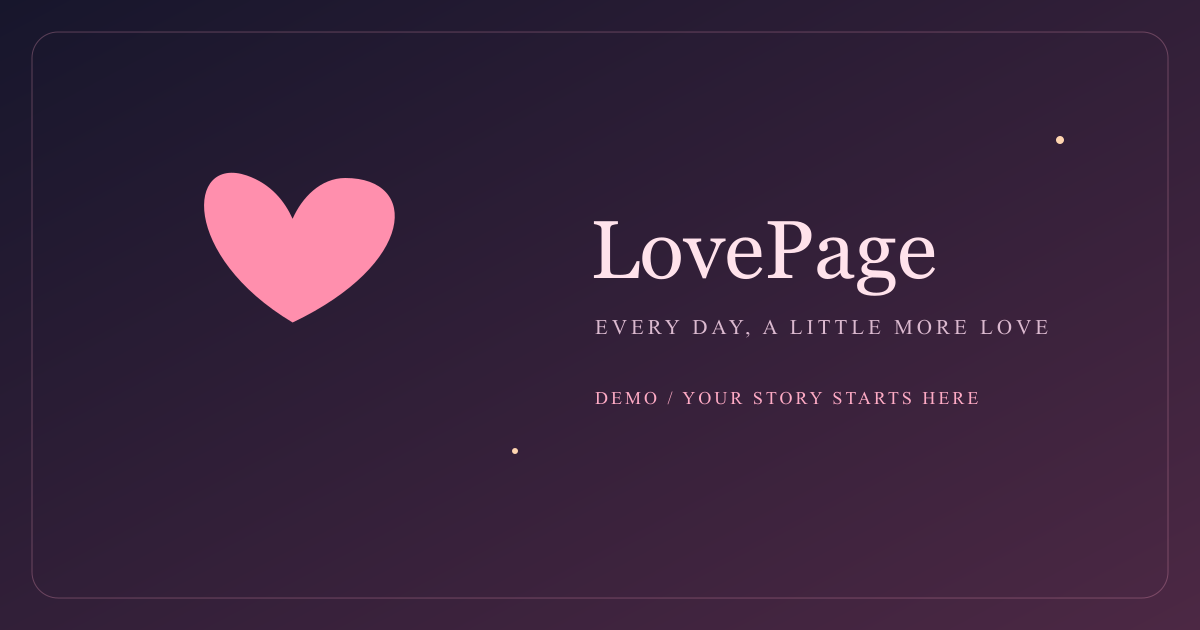
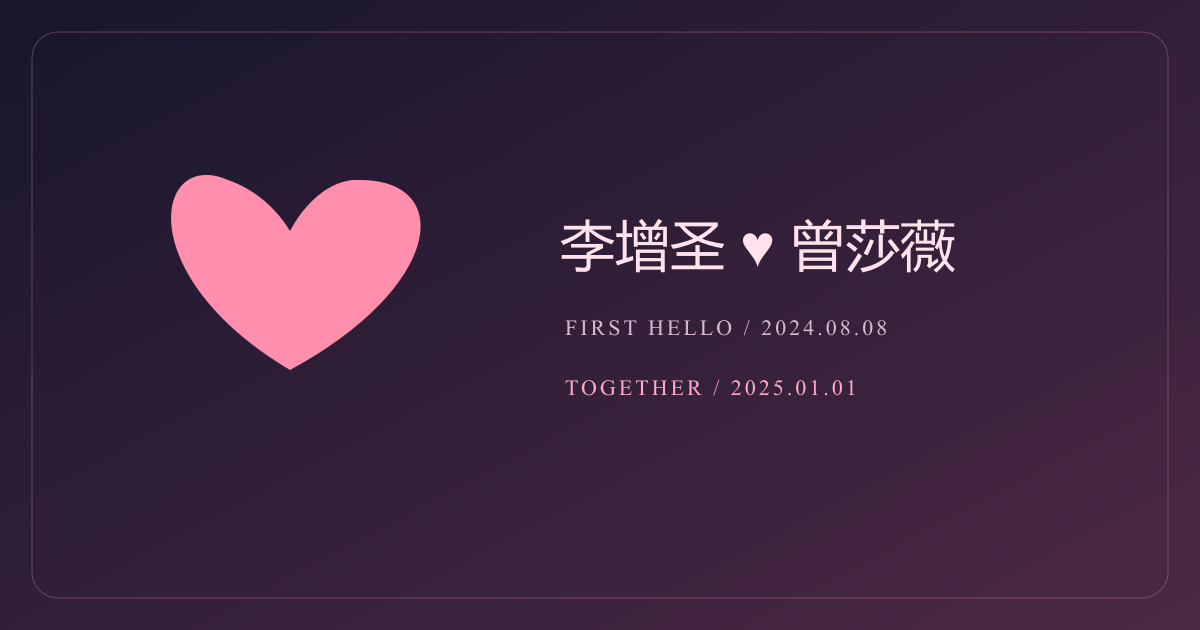
feat: add personal timeline and unmarried relationship details

diff --git a/src/config.ts b/src/config.ts
@@ -58,29 +58,34 @@ function protectPassword(password: string): string {
 const ENV_CONFIG_PATCH = parseEnvConfigPatch(import.meta.env.VITE_LOVE_CONFIG_JSON);
 
 // 专属内容统一在这里替换；环境变量仍可覆盖以下设置。
-// 日期、故事、数量均为演示数据。素材齐全后替换本段并关闭 demoMode。
+// 姓名与日期由本人提供；月份记录保留原始精度，照片暂用明确标记的占位插画。
 const PERSONAL_CONFIG: Partial<Config> = {
   demoMode: true,
-  demoNotice: '示例演示，内容待替换',
+  demoNotice: '我们的故事 · 照片待补充',
   repositoryUrl: 'https://github.com/1910853272/LovePage',
-  boy: '你的名字',
-  girl: 'TA的名字',
-  loveDate: '2024-05-20',
-  marriageDate: '2025-05-20',
+  boy: '李增圣',
+  girl: '曾莎薇',
+  loveDate: '2025-01-01',
+  marriageDate: '',
   siteUrl: 'https://1910853272.github.io/LovePage/',
-  siteName: 'LovePage · 示例版',
+  siteName: '李增圣 ♥ 曾莎薇',
   siteLocale: 'zh-CN',
-  seoDescription: 'LovePage 示例演示。名字、日期、故事与图片均为占位内容，等待替换为我们的回忆。',
+  seoDescription: '李增圣与曾莎薇的故事：2024年8月8日初见，2025年1月1日相恋。记录广州、北京、武汉、长沙与洛阳的城市足迹。',
   siteImage: '/images/share-cover.png',
   siteLogo: '/images/icon-512.png',
   motto: '把平凡的日子，写成我们的故事',
   quotes: ['把平凡的日子，写成我们的故事', '愿每一次回首，都有你在身旁', '慢慢走，把每一天都过成纪念日'],
-  secretMessage: '这里会放上只属于你们的一句话。此刻的照片、日期和故事都是示例。♥',
+  secretMessage: '从初见到相恋，故事仍在继续。♥',
   milestones: [
-    { date: '2024-03-14', label: '初见 · 示例', icon: '🌷', story: '故事从一次相遇开始。这里会记录你们第一次见面的那一天。' },
-    { date: '2024-05-20', label: '相恋 · 示例', icon: '💕', story: '把那句心意说出口，从此多了一个可以分享日常的人。请替换为你们的真实故事。' },
-    { date: '2024-10-01', label: '旅行 · 示例', icon: '✈', story: '一起走过的风景，都会成为回忆。这里等待你们的照片和旅途故事。' },
-    { date: '2025-05-20', label: '约定 · 示例', icon: '💍', story: '未来还有很多值得纪念的日子，留给你们慢慢书写。' },
+    { date: '2024-08-08', label: '初见', icon: '🌷' },
+    { date: '2025-01-01', label: '相恋', icon: '💕' },
+    { date: '2025-02', label: '广州', icon: '📍' },
+    { date: '2025-05-01', label: '广州', icon: '📍' },
+    { date: '2025-07', label: '北京', icon: '📍' },
+    { date: '2025-10-01', label: '武汉', icon: '📍' },
+    { date: '2026-02', label: '长沙', icon: '📍' },
+    { date: '2026-05-01', label: '洛阳', icon: '📍' },
+    { date: '2026-10-01', label: '广州', icon: '📍' },
   ],
   photos: [
     { url: '/images/memory-01.svg', caption: '初见 · 待放入你们的照片' },
@@ -88,31 +93,28 @@ const PERSONAL_CONFIG: Partial<Config> = {
     { url: '/images/memory-03.svg', caption: '远行 · 待放入你们的照片' },
   ],
   timers: [
-    { date: '2024-05-20', label: '相恋时光（示例）', icon: '💕' },
-    { date: '2025-05-20', label: '婚姻时光（示例）', icon: '💍' },
+    { date: '2024-08-08', label: '从初见到现在', icon: '🌷' },
+    { date: '2025-01-01', label: '相恋时光', icon: '💕' },
   ],
   anniversaries: [
-    { date: '2024-05-20', label: '相恋（示例）', icon: '💕' },
-    { date: '2025-05-20', label: '约定（示例）', icon: '💍' },
+    { date: '2024-08-08', label: '初见纪念日', icon: '🌷' },
+    { date: '2025-01-01', label: '相恋纪念日', icon: '💕' },
   ],
   includeDefaultAnniversaries: false,
   statsMode: 'manual',
   statsShowVisitCount: false,
   stats: [
-    { label: '示例旅行', value: 3, icon: '✈' },
-    { label: '示例回忆', value: 4, icon: '📷' },
-    { label: '示例纪念日', value: 2, icon: '💕' },
+    { label: '走过的城市', value: 5, icon: '🏙' },
+    { label: '城市足迹', value: 7, icon: '📍' },
+    { label: '时光节点', value: 9, icon: '🗓' },
   ],
-  wishes: [
-    { text: '示例：一起去看一场日出', done: false },
-    { text: '示例：把相遇的故事写下来', done: true },
-    { text: '示例：每年留下一张合影', done: false },
-  ],
+  wishes: [],
+  sections: { wishes: false },
   music: { ...DEFAULT_CONFIG.music, enabled: false, autoPlay: false, tracks: [] },
   passwordConfig: { ...DEFAULT_CONFIG.passwordConfig!, enabled: false, password: '' },
   privacy: { privateMode: true, noIndex: true },
   googleAnalyticsId: '',
-  welcomeMessage: '欢迎预览 LovePage，当前内容均为示例 ♥',
+  welcomeMessage: '欢迎来到李增圣与曾莎薇的时光记录 ♥',
 };
 
 const RAW_CONFIG: Config = deepMerge(deepMerge(DEFAULT_CONFIG, PERSONAL_CONFIG), ENV_CONFIG_PATCH);

diff --git a/tests/urls.test.ts b/tests/urls.test.ts
@@ -1,10 +1,19 @@
 import test from 'node:test';
 import assert from 'node:assert/strict';
 import { absoluteSiteUrl, withBase } from '../src/urls.ts';
-import { resolveIosStartupImages, resolveSiteImage, resolveSiteLogo } from '../src/config/resolvers.ts';
+import { resolveAnniversaries, resolveTimers, resolveIosStartupImages, resolveSiteImage, resolveSiteLogo } from '../src/config/resolvers.ts';
 import { deepMerge, parseEnvConfigPatch } from '../src/config/merge.ts';
 
 const site = 'https://1910853272.github.io/LovePage/';
+
+test('unmarried couples do not receive marriage timers or anniversaries through defaults', () => {
+  const config = { loveDate: '2025-01-01', marriageDate: '' };
+  assert.deepEqual(resolveTimers(config), [{ date: '2025-01-01', label: '相恋时光', icon: '💕' }]);
+  assert.deepEqual(resolveAnniversaries(config), [{ date: '2025-01-01', label: '相恋纪念日', icon: '💕' }]);
+  const married = { ...config, marriageDate: '2026-10-01' };
+  assert.equal(resolveTimers(married).length, 2);
+  assert.equal(resolveAnniversaries(married).length, 2);
+});
 
 test('local resources receive the deployment base exactly once', () => {
   for (const input of ['photos/合影.jpg', '/photos/合影.jpg', './photos/合影.jpg', '/LovePage/photos/合影.jpg']) {

diff --git a/src/config/resolvers.ts b/src/config/resolvers.ts
@@ -110,14 +110,14 @@ function defaultAnniversaries(config: Pick<Config, 'loveDate' | 'marriageDate'>)
   return [
     { label: '相恋纪念日', icon: '💕', date: config.loveDate },
     { label: '结婚纪念日', icon: '💍', date: config.marriageDate },
-  ];
+  ].filter((mark) => Boolean(mark.date));
 }
 
 function defaultTimers(config: Pick<Config, 'loveDate' | 'marriageDate'>): TimeMark[] {
   return [
     { label: '相恋时光', icon: '💕', date: config.loveDate },
     { label: '婚姻时光', icon: '💍', date: config.marriageDate },
-  ];
+  ].filter((mark) => Boolean(mark.date));
 }
 
 export function resolveTimers(

diff --git a/README.md b/README.md
@@ -1,6 +1,6 @@
 # Love Page
 
-> 此仓库为 `1910853272/LovePage` 的二次开发版本，目前公开展示示例内容。
+> 此仓库为李增圣与曾莎薇的时光记录，照片暂用占位插画，等待补充。
 > [访问网页](https://1910853272.github.io/LovePage/) · [素材替换与部署说明](./docs/CUSTOMIZATION.md) · [实施与验证记录](./docs/IMPLEMENTATION.md)
 >
 > 以下保留原项目功能介绍与来源信息；本仓库的实际配置入口为 `src/config.ts`，发布方式以以上说明为准。
